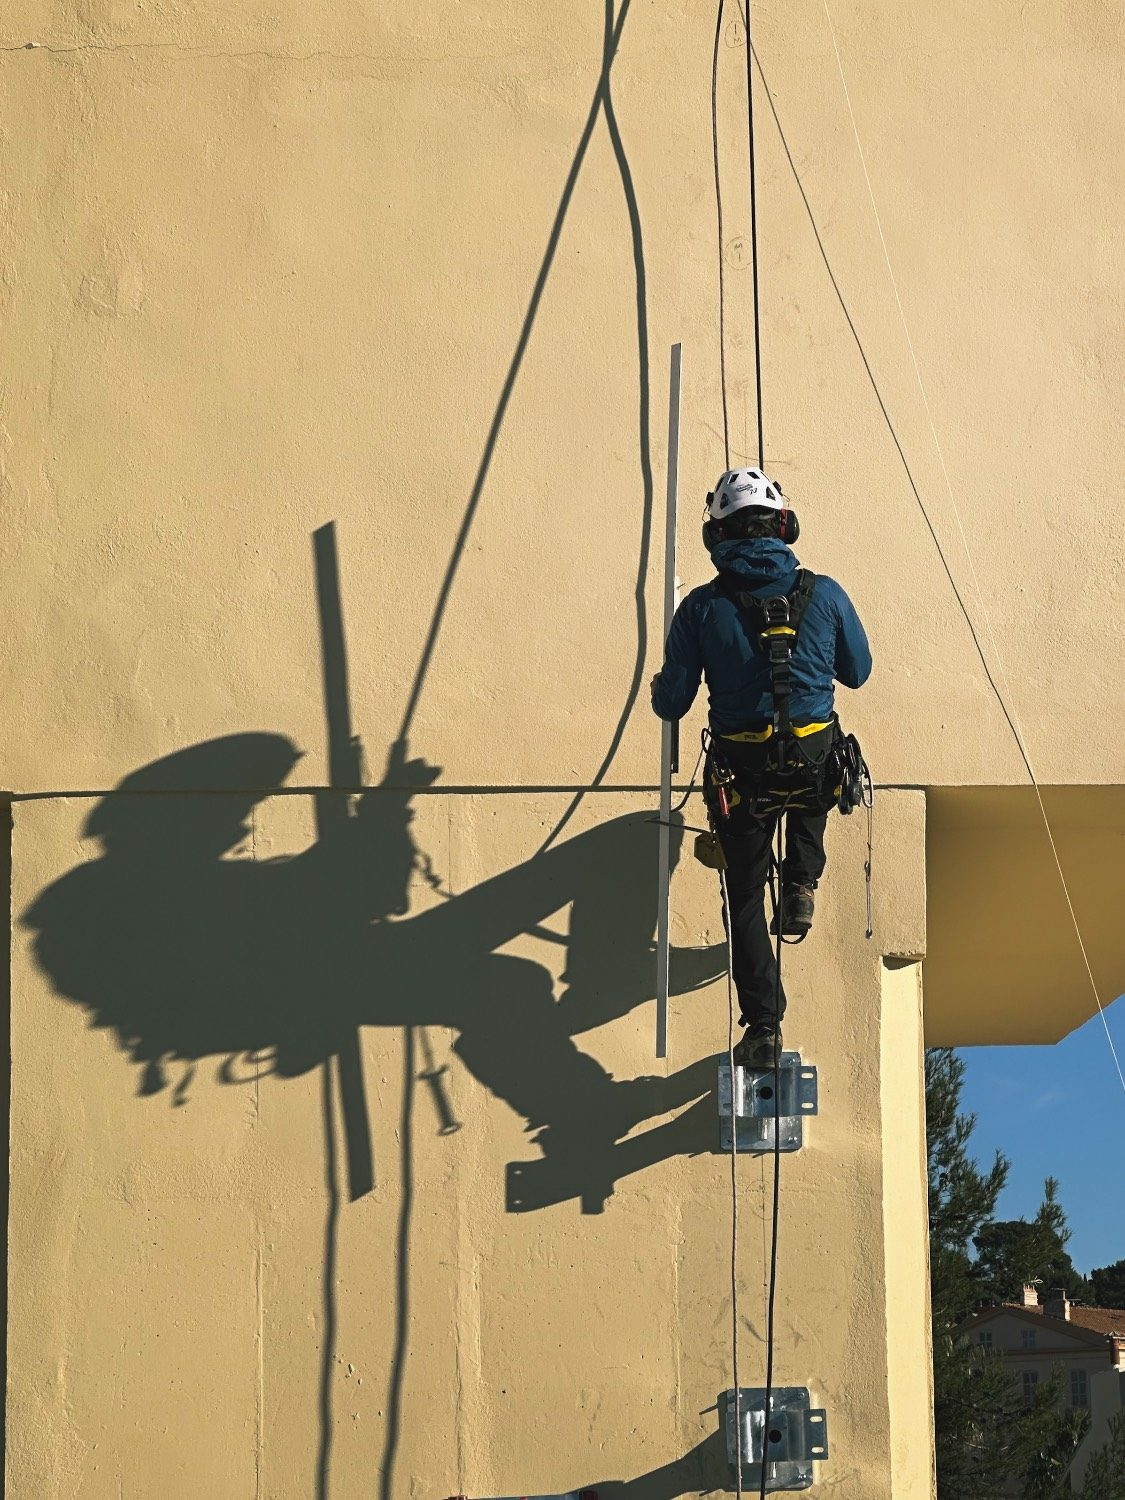
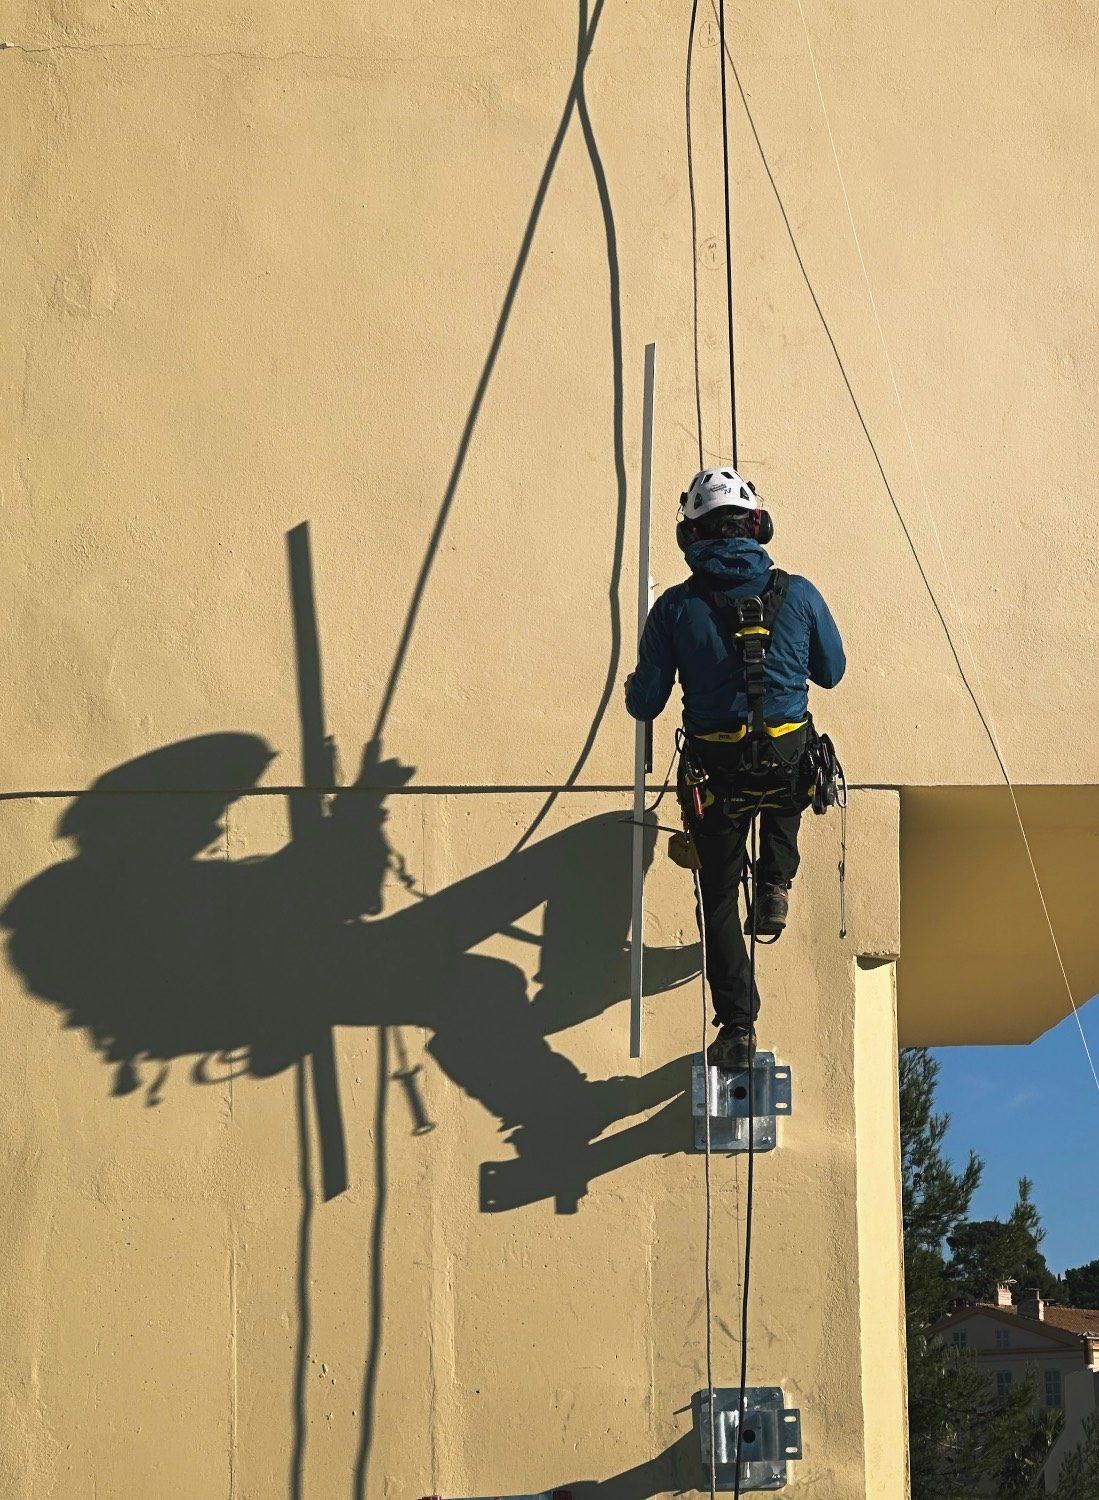
Accueil : photo recadrée par Maël
Claude-Session: https://claude.ai/code/session_01BsmMbfWA4tMQoHgR4PcU5o

diff --git a/index.html b/index.html
@@ -49,7 +49,7 @@
           <div><strong>Devis gratuit</strong><span>Sans engagement</span></div>
         </div>
       </div>
-      <div class="media"><img src="assets/img/mael-gras-cordiste-facade.jpg" width="1125" height="1500" alt="Maël Gras, cordiste, suspendu sur cordes le long d’une façade ensoleillée" fetchpriority="high"></div>
+      <div class="media"><img src="assets/img/mael-gras-cordiste-facade.jpg" width="1099" height="1500" alt="Maël Gras, cordiste, suspendu sur cordes le long d’une façade ensoleillée" fetchpriority="high"></div>
     </div>
   </section>
 
